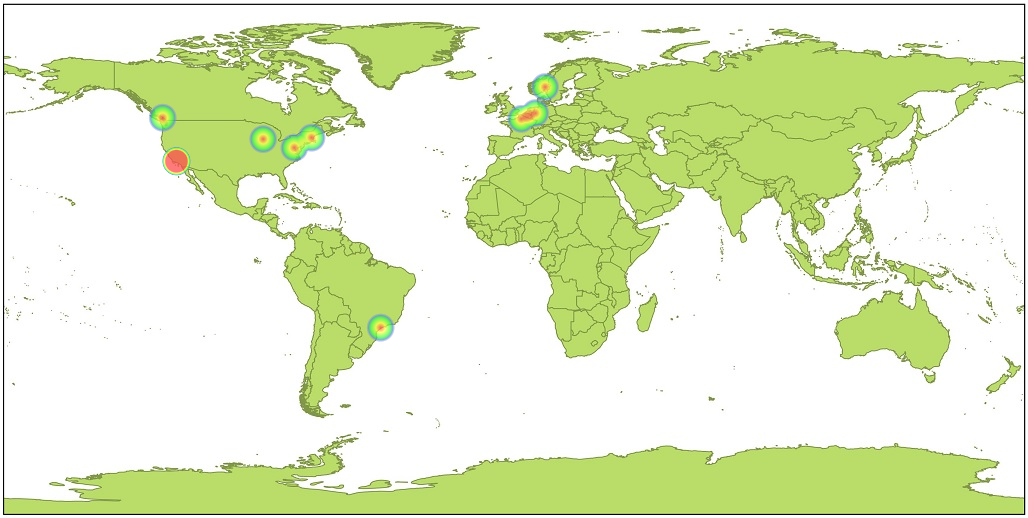
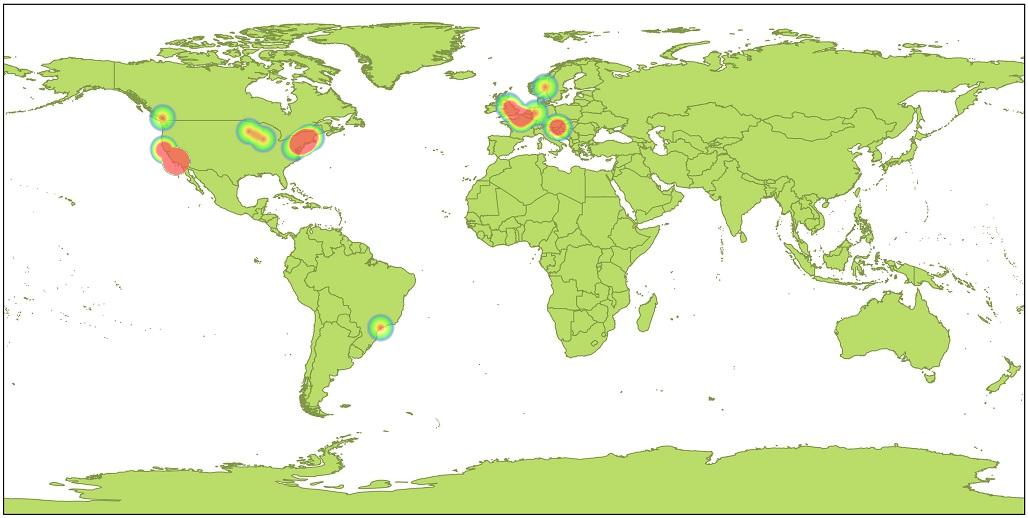
New geoloc data

Changed region(s): [[0.4669, 0.1853, 0.5603, 0.278], [0.2179, 0.2162, 0.3113, 0.3089], [0.1245, 0.2471, 0.1868, 0.3398]]

diff --git a/parse.py b/parse.py
@@ -20,7 +20,7 @@ DRAW_YEARLY_DISTRIBUTION_PLOT = True
 DRAW_HEATMAP = True
 
 HEAT_DISTANCE_THRESHOLD = 5
-HEATMAP_ALPHA = 170
+HEATMAP_ALPHA = 160
 ALPHA_CUTOFF = 0.15
 
 

diff --git a/README.md b/README.md
@@ -12,7 +12,6 @@ Click on the cover to listen to the record on Youtube.
 
 
 
-
 #### 35 | Kyuss, 'Blues for the Red Sun'
 <a href="https://www.youtube.com/results?search_query=Kyuss++Blues+for+the+Red+Sunfull+album"> <img src="http://cps-static.rovicorp.com/3/JPG_500/MI0002/303/MI0002303738.jpg?partner=allrovi.com" alt="cover" height="306"/></a>
 #### 34 | Fugazi, 'Repeater'
@@ -21,10 +20,10 @@ Click on the cover to listen to the record on Youtube.
 <a href="https://www.youtube.com/results?search_query=Satyricon++Nemesis+Divinafull+album"> <img src="http://cps-static.rovicorp.com/3/JPG_500/MI0004/056/MI0004056459.jpg?partner=allrovi.com" alt="cover" height="306"/></a>
 #### 32 | Manu Chao, 'Clandestino'
 <a href="https://www.youtube.com/results?search_query=Manu+Chao++Clandestinofull+album"> <img src="http://cps-static.rovicorp.com/3/JPG_500/MI0002/533/MI0002533780.jpg?partner=allrovi.com" alt="cover" height="306"/></a>
-#### 31 | NoMeansNo, 'One'
-<a href="https://www.youtube.com/results?search_query=NoMeansNo++Onefull+album"> <img src="http://cps-static.rovicorp.com/3/JPG_500/MI0000/291/MI0000291870.jpg?partner=allrovi.com" alt="cover" height="306"/></a>
-#### 30 | Beck, 'Stereopathetic Soulmanure'
+#### 31 | Beck, 'Stereopathetic Soulmanure'
 <a href="https://www.youtube.com/results?search_query=Beck++Stereopathetic+Soulmanurefull+album"> <img src="http://cps-static.rovicorp.com/3/JPG_500/MI0001/434/MI0001434223.jpg?partner=allrovi.com" alt="cover" height="306"/></a>
+#### 30 | NoMeansNo, 'One'
+<a href="https://www.youtube.com/results?search_query=NoMeansNo++Onefull+album"> <img src="http://cps-static.rovicorp.com/3/JPG_500/MI0000/291/MI0000291870.jpg?partner=allrovi.com" alt="cover" height="306"/></a>
 #### 29 | Pixies, 'Surfer Rosa'
 <a href="https://www.youtube.com/results?search_query=Pixies++Surfer+Rosafull+album"> <img src="http://cps-static.rovicorp.com/3/JPG_500/MI0002/009/MI0002009636.jpg?partner=allrovi.com" alt="cover" height="306"/></a>
 #### 28 | Devo, 'Are We Not Men? We Are Devo!'
